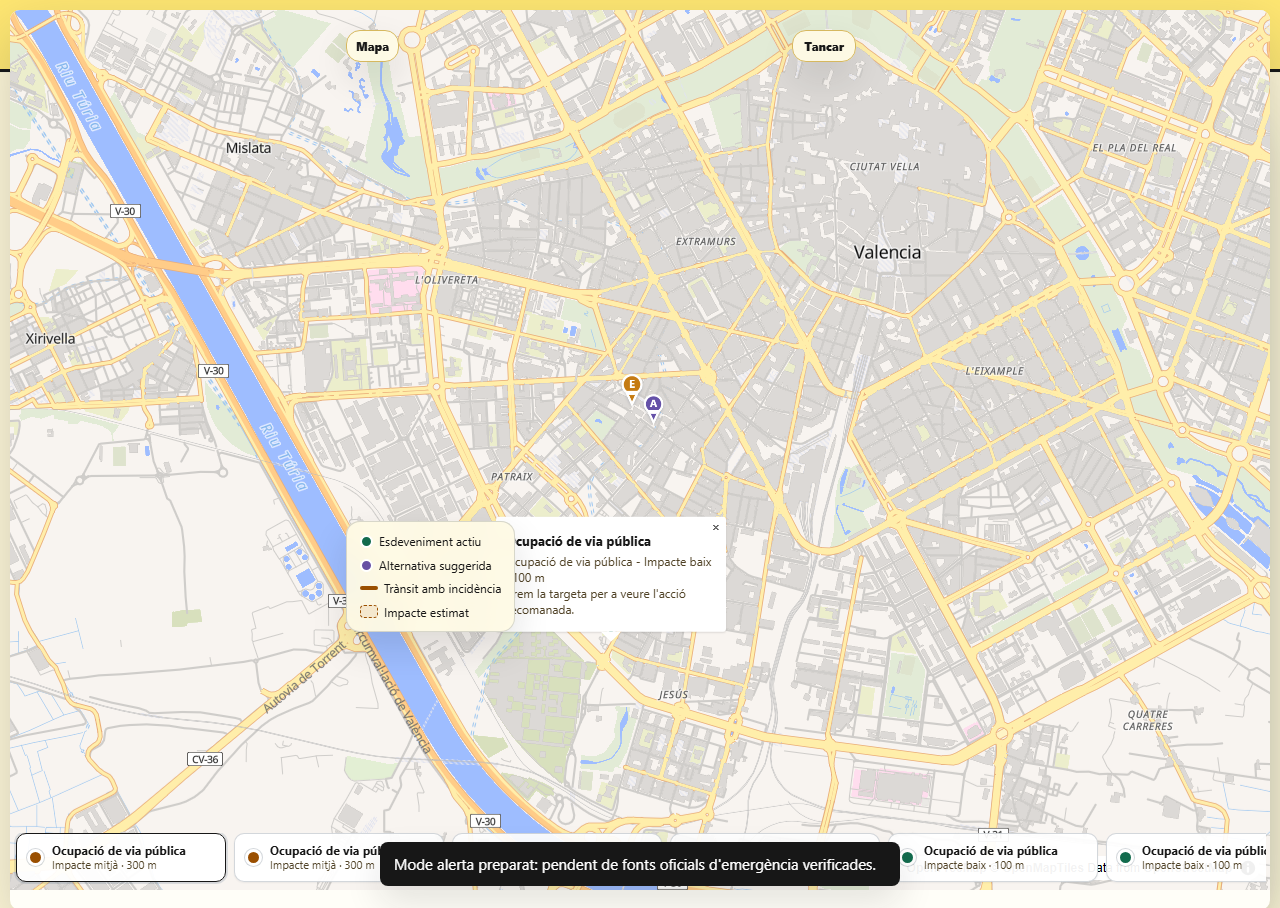
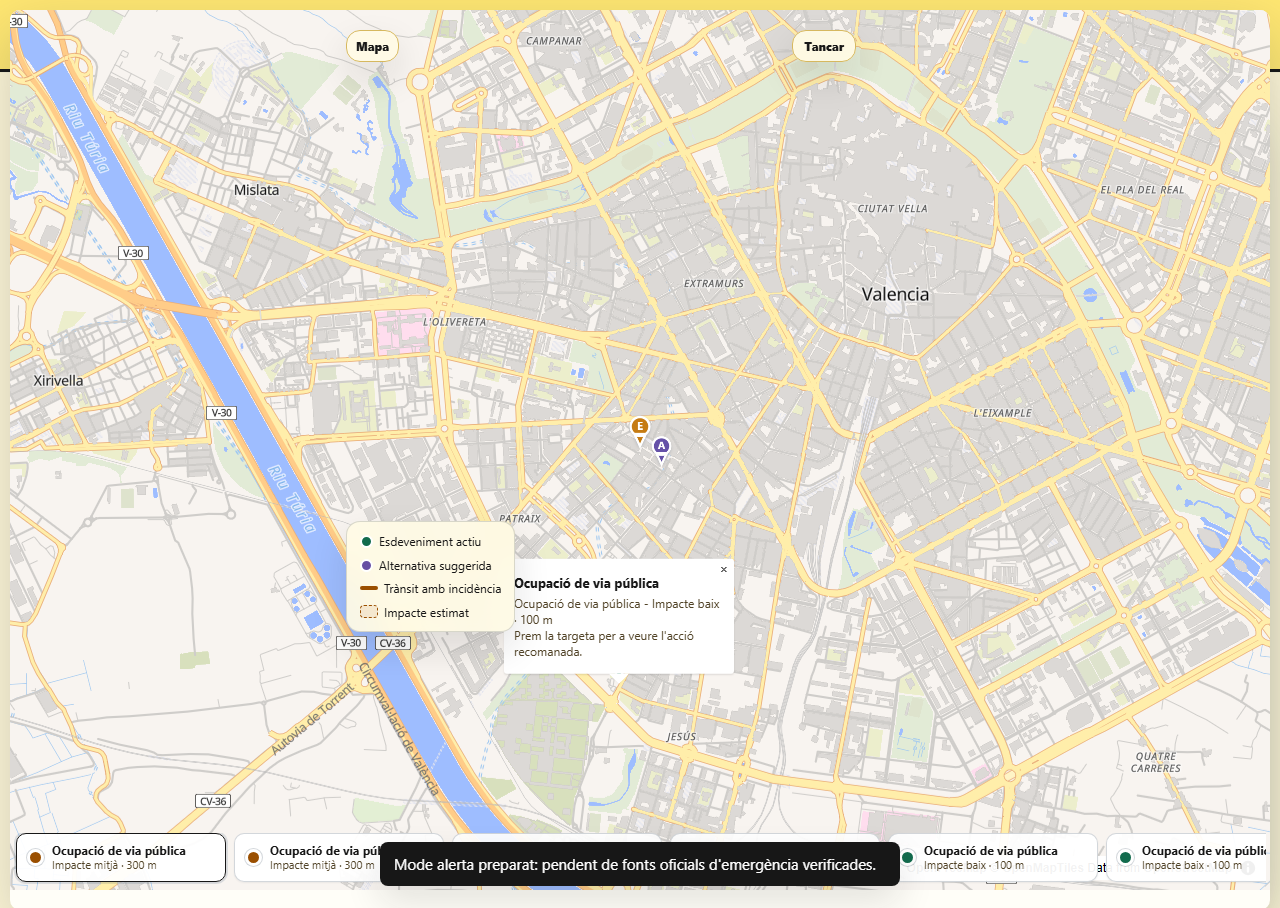
Convert info drawers to central tabs

diff --git a/src/frontend/assets/app.js b/src/frontend/assets/app.js
@@ -256,12 +256,6 @@ function setupLanguageSelector() {
 }
 
 function setupViews() {
-  panelBackdrop?.addEventListener("click", closeInfoPanel);
-  document.addEventListener("click", (event) => {
-    if (event.target.closest("[data-close-panel]")) {
-      closeInfoPanel({ revealEvents: true });
-    }
-  });
   document.addEventListener("keydown", (event) => {
     if (event.key === "Escape" && state.activeView !== "events") {
       closeInfoPanel();
@@ -285,31 +279,36 @@ function setupViews() {
 }
 
 function openInfoPanel(view) {
+  if (eventsPanel) {
+    eventsPanel.hidden = true;
+  }
   document.querySelectorAll(".info-panel[data-panel]").forEach((panel) => {
     const active = panel.dataset.panel === view;
     panel.hidden = !active;
-    panel.setAttribute("role", active ? "region" : "");
-    panel.removeAttribute("aria-modal");
     if (active) {
-      setTimeout(() => panel.querySelector("[data-close-panel]")?.focus(), 80);
+      panel.setAttribute("role", "tabpanel");
+      panel.focus({ preventScroll: true });
+    } else {
+      panel.removeAttribute("role");
     }
   });
   if (panelBackdrop) {
     panelBackdrop.hidden = true;
   }
-  document.body.classList.add("has-info-panel");
 }
 
 function closeInfoPanel(options = {}) {
   state.activeView = "events";
+  if (eventsPanel) {
+    eventsPanel.hidden = false;
+  }
   document.querySelectorAll(".info-panel[data-panel]").forEach((panel) => {
     panel.hidden = true;
-    panel.removeAttribute("aria-modal");
+    panel.removeAttribute("role");
   });
   if (panelBackdrop) {
     panelBackdrop.hidden = true;
   }
-  document.body.classList.remove("has-info-panel");
   if (!options.keepEventsPressed) {
     document.querySelectorAll("[data-view]").forEach((item) => {
       item.setAttribute("aria-pressed", String(item.dataset.view === "events"));
@@ -934,7 +933,6 @@ function renderInfoPanels() {
   ).size;
 
   sourcesPanel.innerHTML = `
-    ${panelCloseButton()}
     <div class="panel-heading">
       <p class="eyebrow">${t("sourcesEyebrow")}</p>
       <h2>${t("sourcesTitle")}</h2>
@@ -966,7 +964,6 @@ function renderInfoPanels() {
   `;
 
   methodologyPanel.innerHTML = `
-    ${panelCloseButton()}
     <div class="panel-heading">
       <p class="eyebrow">${t("methodologyEyebrow")}</p>
       <h2>${t("methodologyTitle")}</h2>
@@ -998,7 +995,6 @@ function renderInfoPanels() {
   `;
 
   additionalInfoPanel.innerHTML = `
-    ${panelCloseButton()}
     <div class="panel-heading">
       <p class="eyebrow">${t("infoEyebrow")}</p>
       <h2>${t("infoTitle")}</h2>
@@ -1048,16 +1044,6 @@ function renderInfoPanels() {
       <a href="${CONTEST_URL}" target="_blank" rel="noopener">${t("contestLink")}</a>
     </div>
   `;
-  if (state.activeView !== "events") {
-    const activePanel = document.querySelector(`.info-panel[data-panel="${state.activeView}"]`);
-    if (activePanel && !activePanel.hidden) {
-      setTimeout(() => activePanel.querySelector("[data-close-panel]")?.focus({ preventScroll: true }), 0);
-    }
-  }
-}
-
-function panelCloseButton() {
-  return `<button type="button" class="panel-close" data-close-panel aria-label="${escapeHtml(t("closePanel"))}">${escapeHtml(t("closePanel"))}</button>`;
 }
 
 function updateMap(cards) {

diff --git a/src/frontend/assets/app.css b/src/frontend/assets/app.css
@@ -131,14 +131,6 @@ a:hover {
   background: rgba(255, 230, 107, 0.94);
 }
 
-.has-info-panel .civic-header {
-  z-index: 120;
-}
-
-body.has-info-panel {
-  overflow: auto;
-}
-
 .brand {
   display: inline-flex;
   align-items: center;
@@ -929,35 +921,17 @@ body.has-info-panel {
 }
 
 .info-panel:not([hidden]) {
-  position: fixed;
-  top: 128px;
-  right: 10px;
-  bottom: 10px;
-  z-index: 70;
-  width: min(520px, calc(100vw - 20px));
-  overflow: auto;
+  display: grid;
+  width: 100%;
   padding: 18px;
   border: 1px solid var(--line-strong);
   border-radius: 10px;
-  box-shadow: 0 24px 70px rgba(11, 32, 56, 0.22);
+  background: var(--surface);
+  box-shadow: var(--shadow-soft);
 }
 
 .panel-close {
-  position: sticky;
-  top: 0;
-  z-index: 2;
-  align-self: start;
-  justify-self: end;
-  min-height: 34px;
-  width: max-content;
-  padding: 0 12px;
-  border: 1px solid var(--line-strong);
-  border-radius: 7px;
-  background: var(--surface);
-  color: var(--ink);
-  font-size: 13px;
-  font-weight: 850;
-  line-height: 1;
+  display: none;
 }
 
 .section-heading {
@@ -1660,11 +1634,16 @@ body.has-info-panel {
   }
 
   .info-panel:not([hidden]) {
-    top: 92px;
-    right: 24px;
-    bottom: 24px;
+    position: absolute;
+    left: 336px;
+    right: 414px;
+    bottom: 18px;
+    z-index: 9;
+    max-height: min(58vh, 560px);
+    overflow: auto;
     border-radius: var(--float-radius);
     background: var(--surface-float);
+    box-shadow: var(--shadow-float);
   }
 
   .workspace {

diff --git a/src/frontend/index.html b/src/frontend/index.html
@@ -133,9 +133,9 @@
             <div id="eventList" class="event-stack"></div>
           </section>
 
-          <section id="sourcesPanel" class="view-panel info-panel" data-panel="sources" hidden></section>
-          <section id="methodologyPanel" class="view-panel info-panel" data-panel="methodology" hidden></section>
-          <section id="additionalInfoPanel" class="view-panel info-panel" data-panel="info" hidden></section>
+          <section id="sourcesPanel" class="view-panel info-panel" data-panel="sources" tabindex="-1" hidden></section>
+          <section id="methodologyPanel" class="view-panel info-panel" data-panel="methodology" tabindex="-1" hidden></section>
+          <section id="additionalInfoPanel" class="view-panel info-panel" data-panel="info" tabindex="-1" hidden></section>
         </section>
 
         <aside class="detail-rail" aria-label="Detalle del evento seleccionado" data-i18n-attr="aria-label:detailRailLabel">

diff --git a/docs/TODO.md b/docs/TODO.md
@@ -100,7 +100,8 @@
 | T-115 | Pase documental de consistencia: retirar rutas históricas `backend/app`, referencias OpenDataSoft antiguas y estados obsoletos en `README.md`, `METHODOLOGY.md`, `ROADMAP.md`, `CONTEXT.md`. | ✅ **Completado 2026-05-10** — README, METHODOLOGY, ROADMAP, CONTEXT, ARCHITECTURE, STATUS y TODO alineados al estado local no-VPS; las referencias restantes son contexto histórico o backlog. | 2026-05-10 |
 | T-116 | Pulido frontend concurso: evitar solape mapa/pestañas, ampliar Fuentes/Metodología/Info, añadir GitHub/AD.TR.15, leyenda y popups de mapa, revisar acentos ES/VAL. | ✅ **Completado 2026-05-10** — smoke mobile/desktop valida capas, leyenda y popup; DevTools confirma `overlapsTabs=false`. | 2026-05-10 |
 | T-117 | Reorganización explicativa de producto: cabecera con propuesta de valor, guía de uso, mapa sin lateral en anchos intermedios, pestañas con fuentes/metodología/info más completas, limitaciones y FAQ. | ✅ **Completado 2026-05-10** — smoke valida `layout.overlapsTabs=false`, guía de producto, ayuda de mapa, leyenda y popup. | 2026-05-10 |
-| T-123 | Claridad de mapa y contenidos: integrar nav sin cajas, evitar red de tráfico normal, limitar zonas de impacto a eventos visibles, ampliar leyenda y romper el patrón 3x3 en Fuentes/Metodología/Info. | ✅ **Completado 2026-05-10** — nav incrustada, tráfico solo con incidencia relevante, zonas visibles por evento mostrado, leyenda mayor, pins propios `E`/`A`, filtros sin siglas opacas, `Vista resumida` operativo, drawers no modales y paneles informativos con separadores/acordeones. | 2026-05-10 |
+| T-123 | Claridad de mapa y contenidos: integrar nav sin cajas, evitar red de tráfico normal, limitar zonas de impacto a eventos visibles, ampliar leyenda y romper el patrón 3x3 en Fuentes/Metodología/Info. | ✅ **Completado 2026-05-10** — nav incrustada, tráfico solo con incidencia relevante, zonas visibles por evento mostrado, leyenda mayor, pins propios `E`/`A`, filtros sin siglas opacas, `Vista resumida` operativo y paneles informativos con separadores/acordeones. | 2026-05-10 |
+| T-134 | Convertir `Fuentes`, `Metodología` e `Info` de drawer lateral a pestañas centrales. | ✅ **Completado 2026-05-10** — pestañas individuales en el área principal; `Eventos` restaura el carril operativo y smoke valida el estado. | 2026-05-10 |
 | T-129 | Señales de confianza y resiliencia frontend: sello de veracidad por evento, impacto temporal, skeleton de carga, microfeedback móvil y modo alerta preparado sin capas ficticias de emergencia. | ✅ **Completado 2026-05-10** — UI marca datos verificados, documenta duración prevista, vibra en interacciones compatibles y activa un modo alerta de alto contraste que avisa de que faltan fuentes oficiales de emergencia. | 2026-05-10 |
 | T-132 | Widget para medios: exportar snapshot trazable por evento con fuente, impacto, alternativa y HTML embebible. | ✅ **Completado 2026-05-10** — el panel de detalle copia un payload JSON CC-BY 4.0 con `embed_html`; smoke Playwright valida la acción bilingüe. | 2026-05-10 |
 | T-133 | Claridad ZBE y alternativas modales: selector de distintivo ambiental, recomendación por bus/metro/bici/PMR/comercio y feedback visible con texto. | ✅ **Completado 2026-05-10** — frontend estima afectación ZBE de forma conservadora con enlace a ordenanza, explica por qué sugiere Valenbisi/EMT/Metro/PMR/comercio y el feedback deja de ser solo `+/-`. | 2026-05-10 |

diff --git a/CHANGELOG.md b/CHANGELOG.md
@@ -5,6 +5,10 @@ El formato sigue [Keep a Changelog](https://keepachangelog.com/es-ES/1.1.0/) y e
 
 ## [Unreleased]
 
+### Changed - Pestañas informativas - 2026-05-10
+- Frontend: `Fuentes`, `Metodología` e `Info` dejan de abrirse como drawer lateral y pasan a pestañas individuales dentro del área central, más visibles y fáciles de mantener.
+- Tests: el smoke valida que la pestaña activa oculte la lista de eventos y que volver a `Eventos` restaure el carril operativo.
+
 ### Added - ZBE y alternativas por medio - 2026-05-10
 - Frontend: nuevo comprobador conservador `Vehículo y ZBE` por distintivo ambiental, con enlace a la ordenanza municipal y aviso de no sustitución legal.
 - Frontend: el panel de detalle explica por qué se recomienda una alternativa según perfil/medio (`Valenbisi`, EMT, Metrovalencia, PMR o comercio).
@@ -30,7 +34,7 @@ El formato sigue [Keep a Changelog](https://keepachangelog.com/es-ES/1.1.0/) y e
 - Frontend: eventos y alternativas pasan a pins MapLibre propios (`E`/`A`) para destacar sobre los iconos del mapa base; se ocultan simbolos POI/transporte del mapa base que compiten visualmente.
 - Frontend: `Solo eventos activos` recarga datos y cambia el volumen visible; al desactivarlo se muestran mas eventos disponibles para exploracion.
 - Frontend: el mapa expandido recupera una bandeja inferior compacta de eventos visibles para que la lista no desaparezca del flujo operativo.
-- Frontend: corregido bug donde `Fuentes/Metodologia/Info` ocultaban o bloqueaban la seccion `Eventos`; los paneles pasan a drawer no modal, sin backdrop bloqueante y con foco inicial en `Cerrar`.
+- Frontend: corregido bug donde `Fuentes/Metodologia/Info` bloqueaban la navegación; posteriormente pasan a pestañas centrales sin overlay.
 - Frontend: `Eventos cercanos` incorpora boton `Contraer/Ver eventos`; en desktop se elimina el scroll vertical interno de la bandeja y se usa carril horizontal sin scrollbar visible.
 - Accesibilidad: perfiles y filtros dejan de depender de carruseles con scrollbar oculta; ahora envuelven en varias lineas para personas mayores y navegacion tactil.
 - Fix: el boton `Contraer/Ver eventos` ahora aplica el estado sobre `#events`, no sobre el contenedor interno; el carril desktop muestra scrollbar horizontal usable para recorrer todas las incidencias.
@@ -46,7 +50,7 @@ El formato sigue [Keep a Changelog](https://keepachangelog.com/es-ES/1.1.0/) y e
 - Docs: metodología y sistema de diseño explican que la severidad derivada es impacto operativo estimado, no prioridad oficial municipal.
 
 ### Changed - Claridad de producto y perfiles - 2026-05-10
-- Frontend: navegación de secciones integrada en el header; `Fuentes`, `Metodología` e `Info` se abren como drawer superpuesto para mantener el mapa como superficie principal.
+- Frontend: navegación de secciones integrada en el header; `Fuentes`, `Metodología` e `Info` se muestran como secciones del área principal.
 - Frontend: botones de navegación externa pasan a estilo outlined; el CTA administrativo mantiene peso visual sólido.
 - Frontend: eliminada la navegación superior duplicada; quedan las secciones operativas `Eventos`, `Fuentes`, `Metodología` e `Info`.
 - Frontend: marca pública visible consolidada como `VLC PROACTIVA`; se retiran restos visibles de `V-PRO` en la UI.

diff --git a/docs/STATUS.md b/docs/STATUS.md
@@ -122,6 +122,6 @@ Ver [`TODO.md`](./TODO.md) para la lista completa y [`NEXT_STEPS.md`](../NEXT_ST
 - **R-14:** predespliegue concurso: `talls-transit-falles` deja de ser Golden Path activo; `comercio-ocupacion` aplica a ocupaciones actuales desde severidad 1 y muestra trámite municipal real en perfil Comercio; memoria reforzada con marca `VLC PROACTIVA (València Proactiva)` y frase de datos derivados.
 - **R-15:** pulido institucional: Fuentes, Metodología e Info explican trazabilidad, Open Data 2.0, Digital Twin simplificado, simbología del mapa y FAQ estratégica; la UI añade atribución CC BY 4.0 y CTA administrativo moderado.
 - **R-16:** claridad de producto: eliminada nav superior duplicada, marca visible `VLC PROACTIVA`, perfiles con alternativa prioritaria distinta, aviso explícito de que Maps no evita incidencias, listado concreto de datasets en Fuentes, `comercio-ocupacion` cambia de ayudas genéricas `AE.CM.35` a carga/descarga `TR.AR.45`, y carga frontend con debounce anti-429.
-- **R-17:** navegación integrada en header: `Fuentes`, `Metodología` e `Info` se abren como drawer superpuesto y el mapa queda siempre como superficie principal. Añadidas tareas T-120 (Valhalla + `exclude_polygons`) y T-121 (Modo Alerta solo con fuentes oficiales verificadas).
+- **R-17:** navegación integrada en header: `Fuentes`, `Metodología` e `Info` se muestran como pestañas centrales del área principal. Añadidas tareas T-120 (Valhalla + `exclude_polygons`) y T-121 (Modo Alerta solo con fuentes oficiales verificadas).
 - **R-18:** severidad y diseño operativo: las ocupaciones sin gravedad oficial ya no caen todas a `1`; V-PRO deriva impacto conservador desde superficie y tipo de afección. Reingesta dev tras el cambio: `OCUPACION` queda `1=39`, `2=42`, `3=172`; `TRAFICO` queda `1=410` por estado oficial actual. El frontend pasa a layout flotante sobre mapa, con badges `Impacto`, modo claro/oscuro y paneles menos cuadriculados.
-- **R-19:** claridad de mapa y contenidos: nav de secciones incrustada sin cajas, zonas de impacto limitadas a eventos visibles, tráfico normal no se pinta, leyenda más legible y Fuentes/Metodología/Info pasan a bloques escaneables con separadores/acordeones. Ajuste posterior: pins propios `E`/`A`, filtros de alternativas sin siglas opacas, `Fuentes` sin contador en nav, `Vista resumida` recarga datos, mapa expandido con bandeja compacta de eventos y drawers informativos no modales que no ocultan `Eventos`.
+- **R-19:** claridad de mapa y contenidos: nav de secciones incrustada sin cajas, zonas de impacto limitadas a eventos visibles, tráfico normal no se pinta, leyenda más legible y Fuentes/Metodología/Info pasan a bloques escaneables con separadores/acordeones. Ajuste posterior: pins propios `E`/`A`, filtros de alternativas sin siglas opacas, `Fuentes` sin contador en nav, `Vista resumida` recarga datos, mapa expandido con bandeja compacta de eventos y pestañas informativas centrales.

diff --git a/docs/AGENTS.md b/docs/AGENTS.md
@@ -1078,10 +1078,15 @@ Archivos tocados por el orquestador en este post-script: `docs/STATUS.md`, `docs
 - No volver a usar siglas sin contexto en filtros: `VE` debe ser `Recarga vehículo eléctrico`; `EMT`/`FGV` deben indicar paradas/estaciones.
 - `Solo eventos activos` no debe ser solo un toggle visual: debe recargar o refiltrar de forma observable.
 - En mapa expandido debe existir una bandeja compacta de eventos visibles para no perder la lista de contexto.
-- Ajuste QA: `Fuentes/Metodología/Info` son drawers no modales. No deben ocultar `#events`, no deben activar backdrop bloqueante y deben mover el foco a `Cerrar`.
+- Ajuste QA actualizado: `Fuentes/Metodología/Info` son pestañas centrales, no drawers. Al abrir una de ellas se oculta `#events`; al volver a `Eventos` se restaura el carril operativo.
 - `Eventos cercanos` tiene control `Contraer/Ver eventos`; no volver a usar scroll vertical interno poco visible en la bandeja desktop.
 - Para accesibilidad tactil/personas mayores, perfiles y filtros deben envolver en varias lineas antes que esconderse en carruseles sin barra visible.
 - Bugfix posterior: el estado `is-collapsed` debe vivir en `#events` porque el CSS depende de `.event-list.is-collapsed`; el carril desktop de `#eventList` debe mantener `overflow-x: auto` y scrollbar visible.
+
+## Sesion 2026-05-10 - Pestañas informativas centrales
+- Frontend: `Fuentes`, `Metodología` e `Info` dejan de ser drawers laterales y pasan a pestañas individuales en el área central, alineadas con la navegación superior.
+- Regla nueva: las pestañas informativas pueden ocultar `#events` mientras están activas; `Eventos` debe restaurar la lista y el toggle `Contraer/Ver eventos`.
+- No reintroducir botones `Cerrar` ni foco forzado a un drawer para estas secciones.
 
 ## Sesion 2026-05-10 - Confianza del dato y vision post-MVP
 - Frontend: cada evento debe mostrar sello de veracidad y el panel de detalle debe explicar impacto temporal previsto. Si la fuente fuera ciudadana, etiquetar como pendiente de validacion oficial.

diff --git a/docs/design/vpro-design-system.md b/docs/design/vpro-design-system.md
@@ -76,7 +76,7 @@ Evitar paletas dominadas por morado, azul oscuro, crema/beige, naranja o gradien
 - Las alternativas cercanas deben ser distinguibles de los eventos mediante color, leyenda y popup explicito asociado al perfil activo.
 - En mapa operativo, los marcadores V-PRO tienen prioridad sobre iconos del mapa base. Usar pins propios y ocultar POI/transporte base cuando resten legibilidad.
 - En vista expandida, conservar una bandeja compacta de eventos visibles para que el mapa no quede desconectado de la lista.
-- Los paneles informativos son drawers no modales: no bloquean la lista de eventos, no fuerzan `overflow: hidden` en el body y deben enfocar el boton de cierre al abrir.
+- Los paneles informativos (`Fuentes`, `Metodología`, `Info`) son pestañas centrales del área principal. No usan drawer lateral, backdrop ni botón de cierre; la navegación superior es el único cambio de sección.
 - Las listas operativas no deben depender de scrollbars internas poco evidentes. Si una bandeja puede crecer, ofrecer control explicito de contraer/expandir.
 
 ## Anti-patrones

diff --git a/docs/ROADMAP.md b/docs/ROADMAP.md
@@ -68,6 +68,7 @@
 - [x] Señales de veracidad del dato, skeleton de carga, microfeedback móvil y modo alerta preparado sin datos ficticios de emergencia.
 - [x] Exportación de snapshot periodístico por evento, con fuente, impacto, alternativa y HTML embebible.
 - [x] Comprobador conservador de ZBE por distintivo ambiental y explicación de alternativas por medio de transporte/perfil.
+- [x] `Fuentes`, `Metodología` e `Info` como pestañas centrales en lugar de drawer lateral.
 - [ ] Pase final WCAG/teclado/contraste.
 - [x] Golden Path demo estabilizado para vídeo con `ocupacio-via-publica` actual y perfil Comercial; no usar Fallas histórico fuera de temporada.
 
